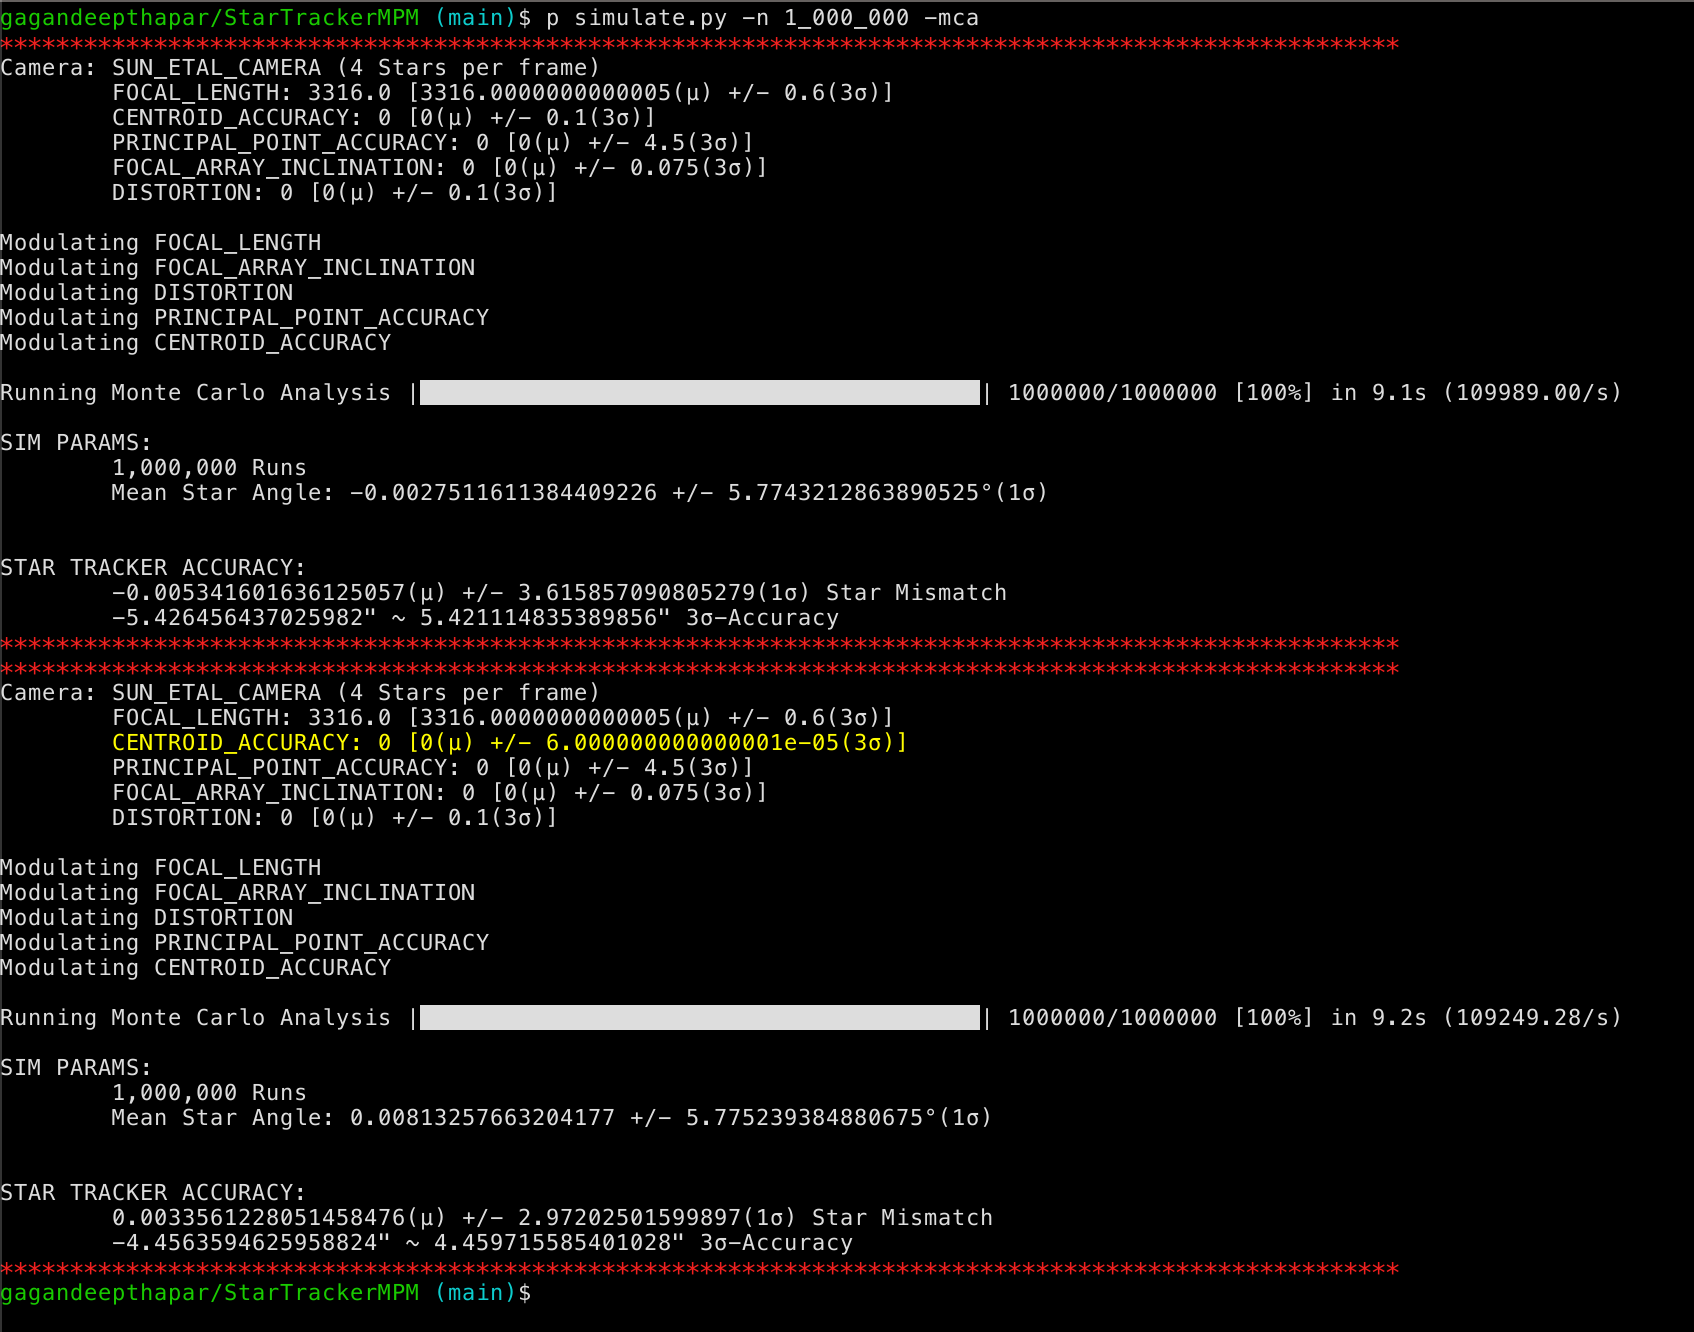
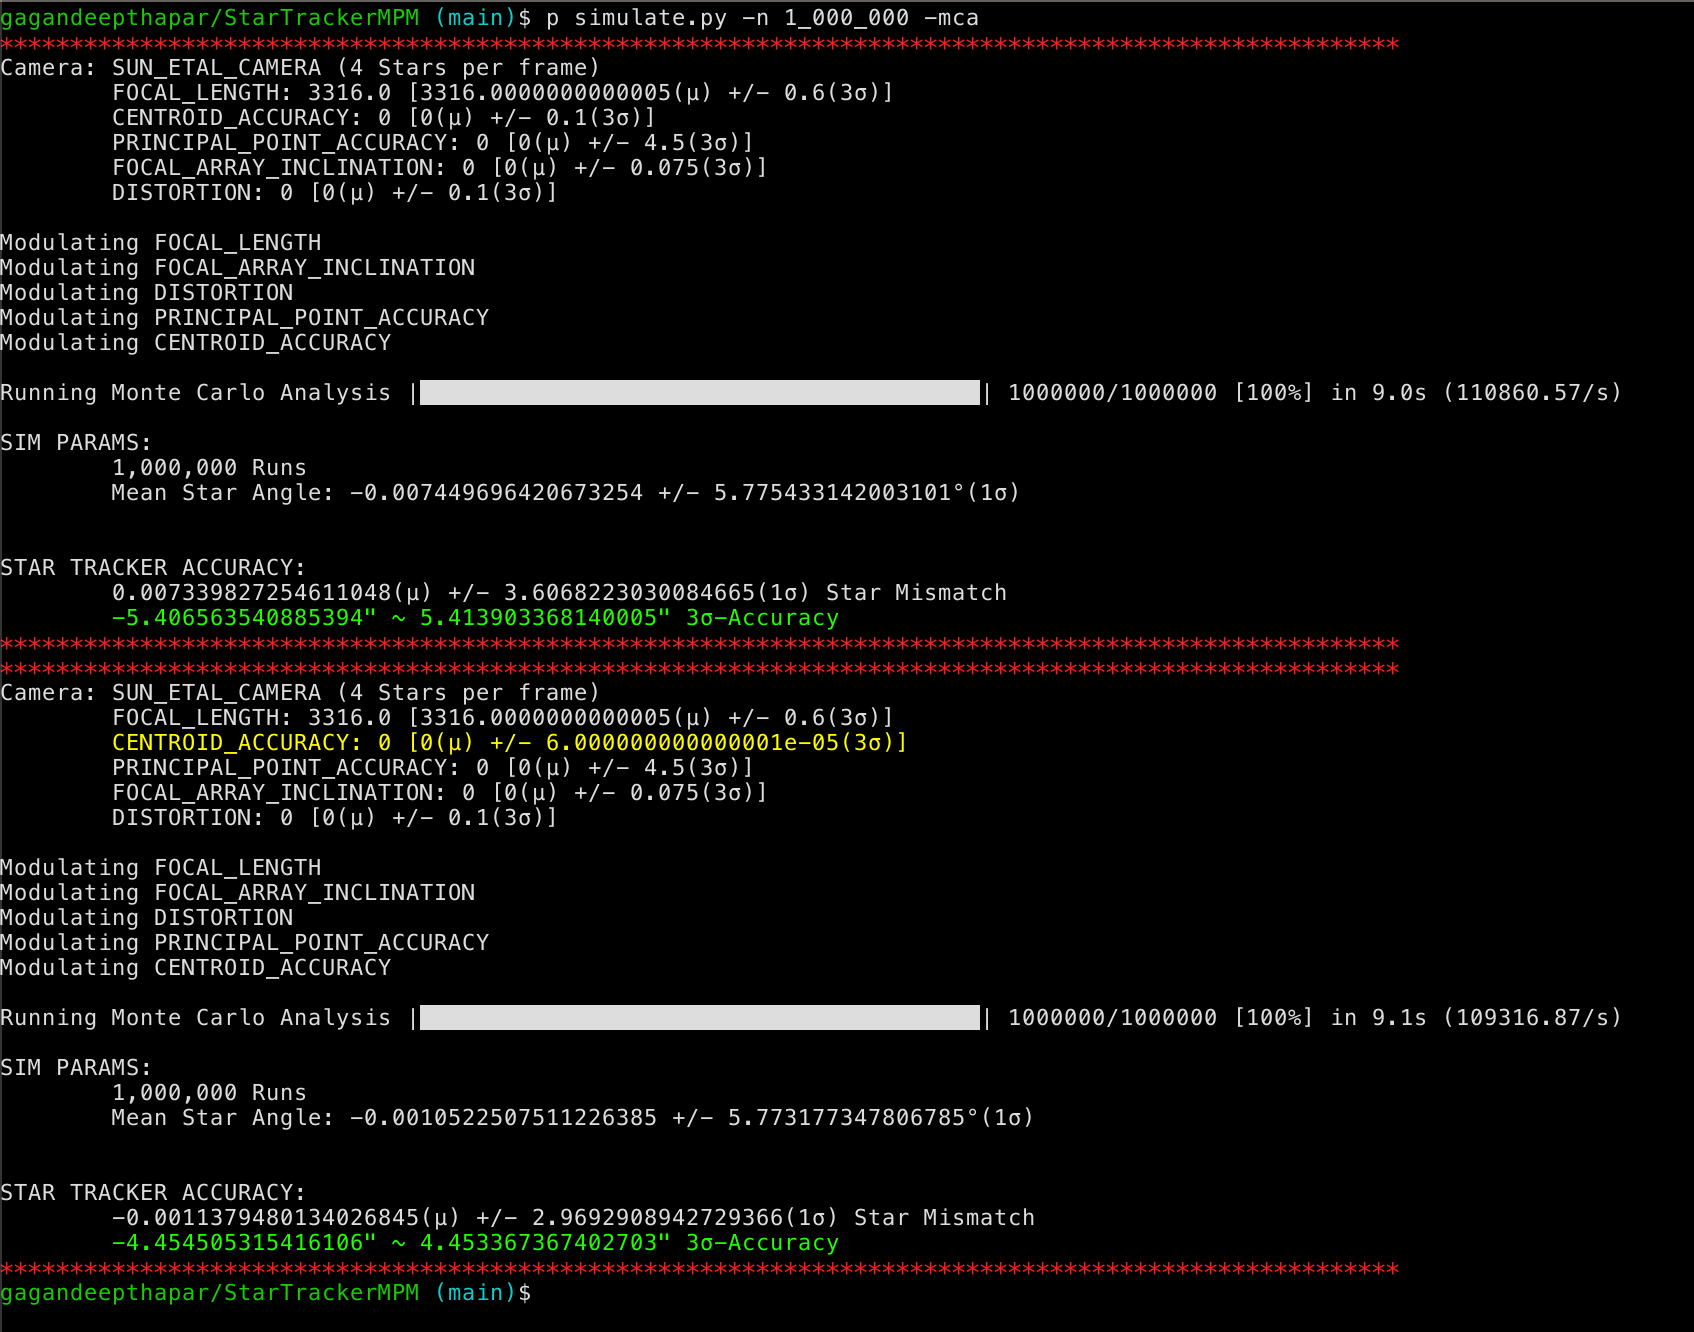
updated output image of mca

diff --git a/simulate.py b/simulate.py
@@ -24,7 +24,7 @@ def _est_StarTracker_Accuracy(mean:float, stddev:float, num_stars:float)->tuple[
 
     print('\nSTAR TRACKER ACCURACY:')
     print('\t{}({}) +/- {}(1{}) Star Mismatch'.format(mean, c.MU, stddev, c.SIGMA))
-    print('\t{}" ~ {}" 3{}-Accuracy'.format(accMin, accMax, c.SIGMA))
+    print('\t{}{}" ~ {}" 3{}-Accuracy{}'.format(c.GREEN,accMin, accMax, c.SIGMA, c.DEFAULT))
 
     return (accMin, accMax)
 
@@ -115,6 +115,7 @@ def runMonteCarlo(cam:StarTracker, params:tuple[Parameter], numRuns:int=1_000)->
 
             # set star incident angle [deg]
             angle = np.random.uniform(-10, 10)
+            # angle = 8.5
 
             # store data in arrays
             star_angle[i] = angle
